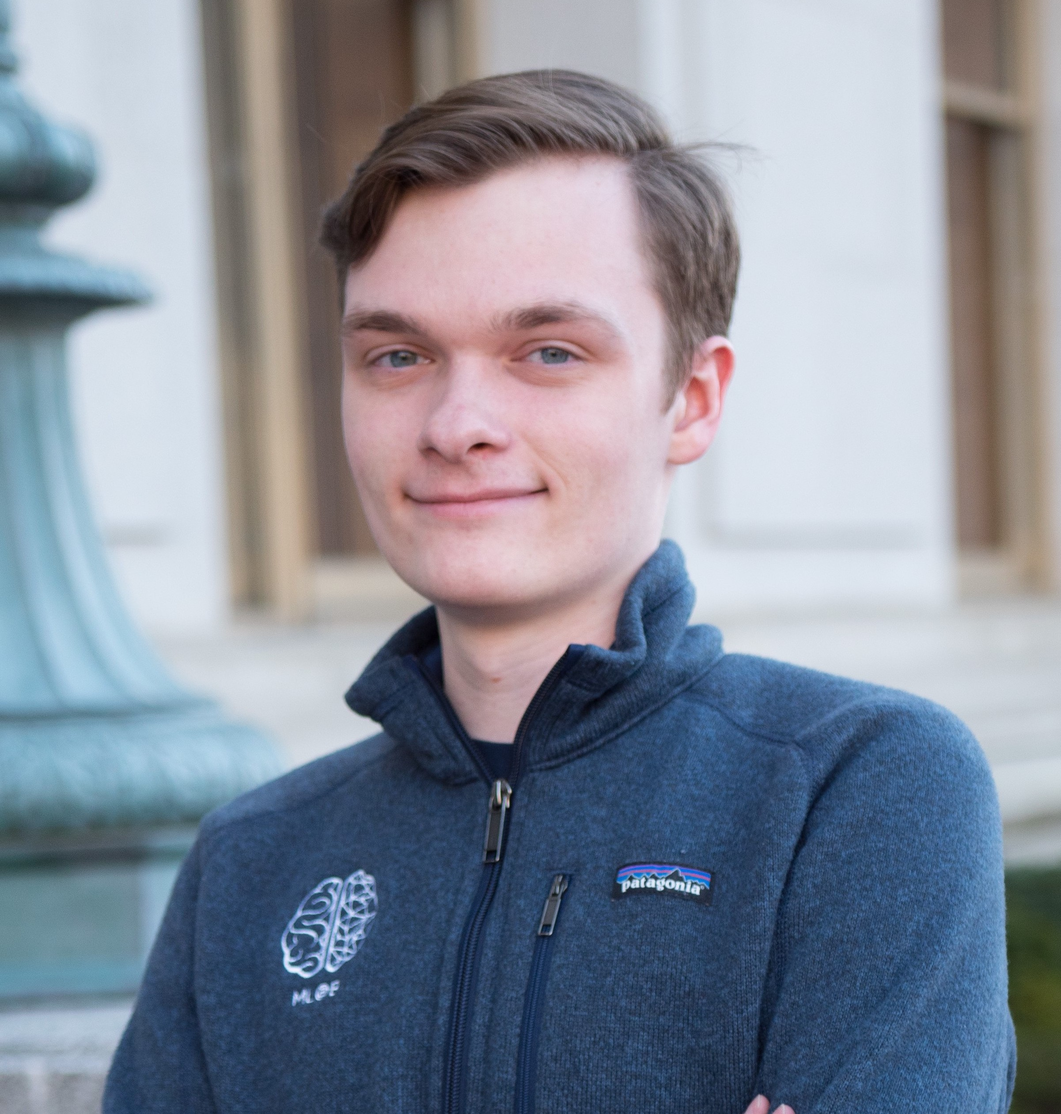
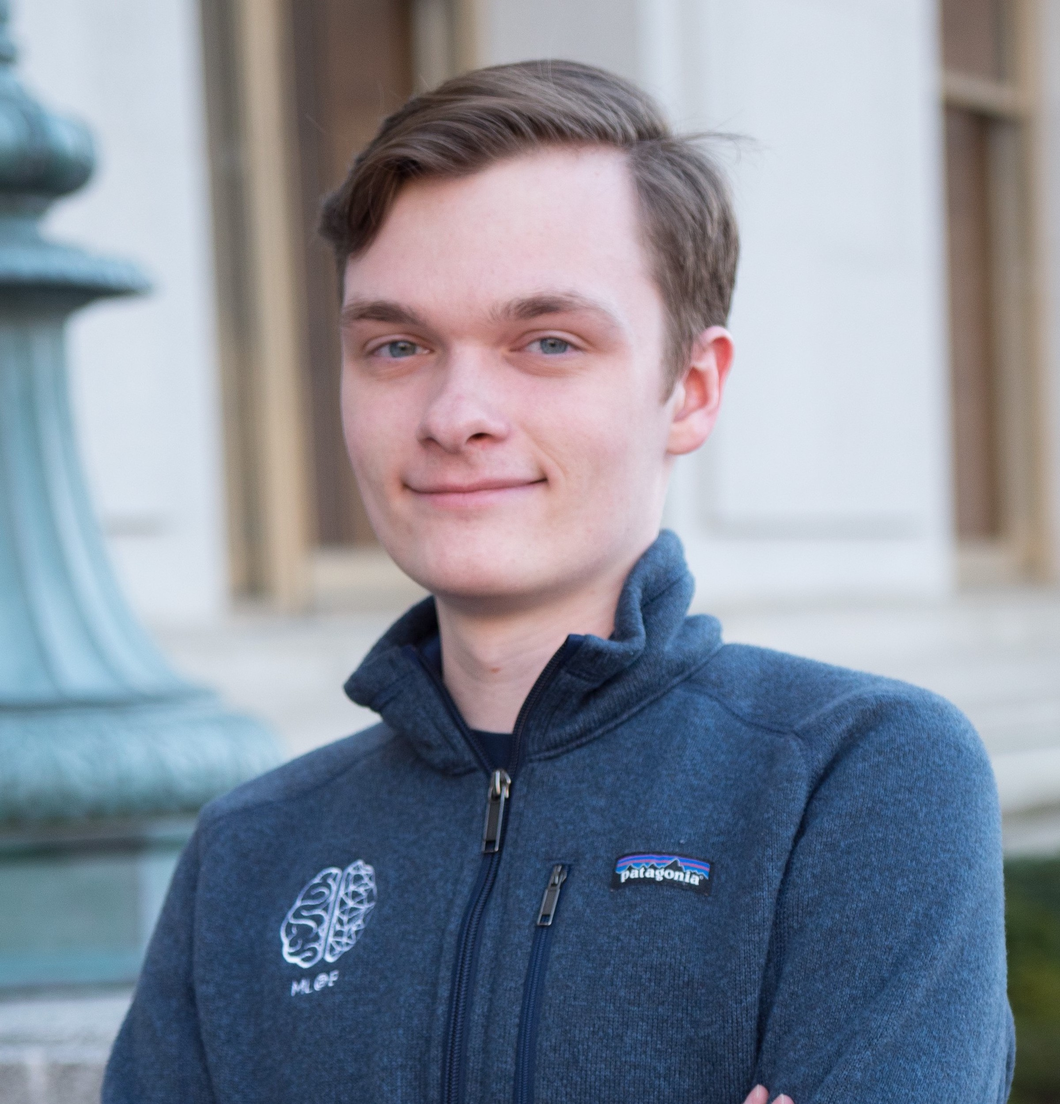
Added initial rendering of low-resolution picture.

diff --git a/index.html b/index.html
@@ -13,13 +13,20 @@
       gtag('js', new Date());
       gtag('config', 'UA-175522370-1');
     </script>
+    <script>
+      function upgradeImage(object) {
+        object.className = "visible";
+        document.getElementById("img_lowres").className = "hidden";
+      }
+    </script>
   </head>
   <body>
     <h1>
       Christopher Bender
     </h1>
     <div>
-      <img src="images/picture.jpg"> 
+      <img id="img_lowres" src="images/picture-lowresolution.jpg" class="visible">
+      <img id="img_highres" src="images/picture.jpg" class="hidden", onload="upgradeImage(this);">
       <p>
         I'm a UC Berkeley undergraduate studying pure math and computer science.
       </p>

diff --git a/style.css b/style.css
@@ -20,6 +20,12 @@ img {
   width: 200px;
 }
 
+.hidden {
+  display: none;
+}
+.visible {
+}
+
 ul.nobullet {
   list-style-type: none;
   margin: 0;
